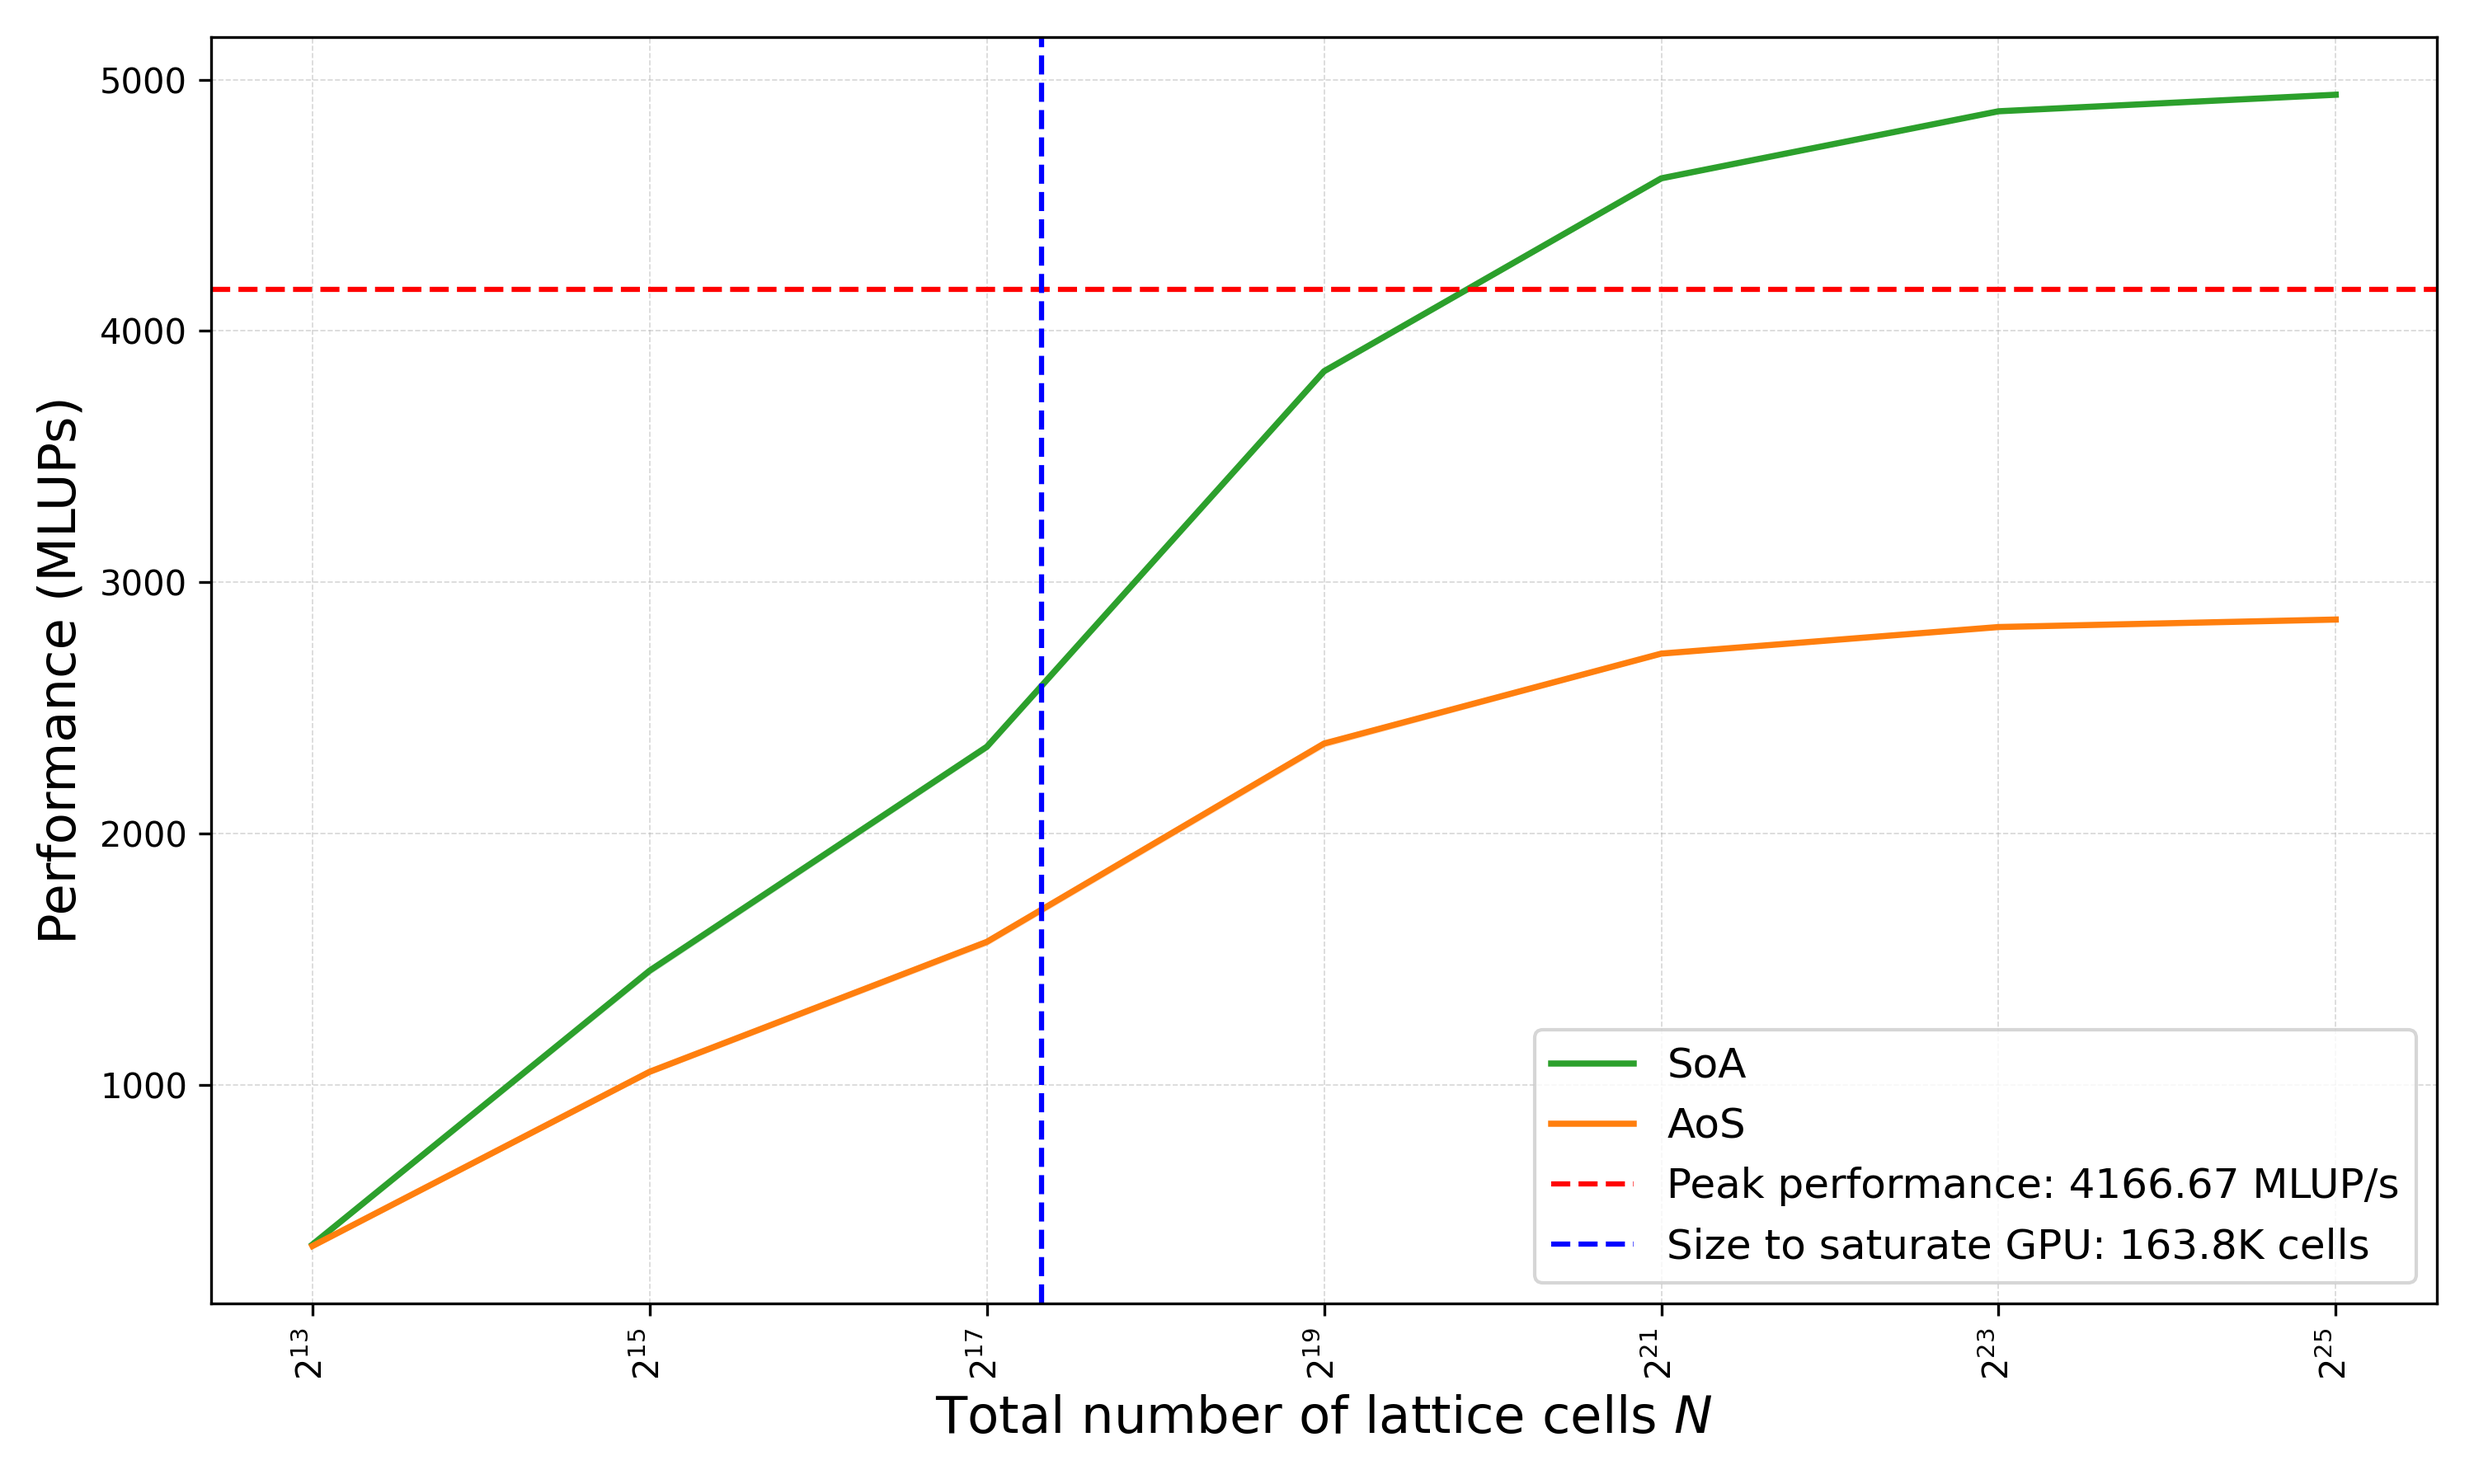
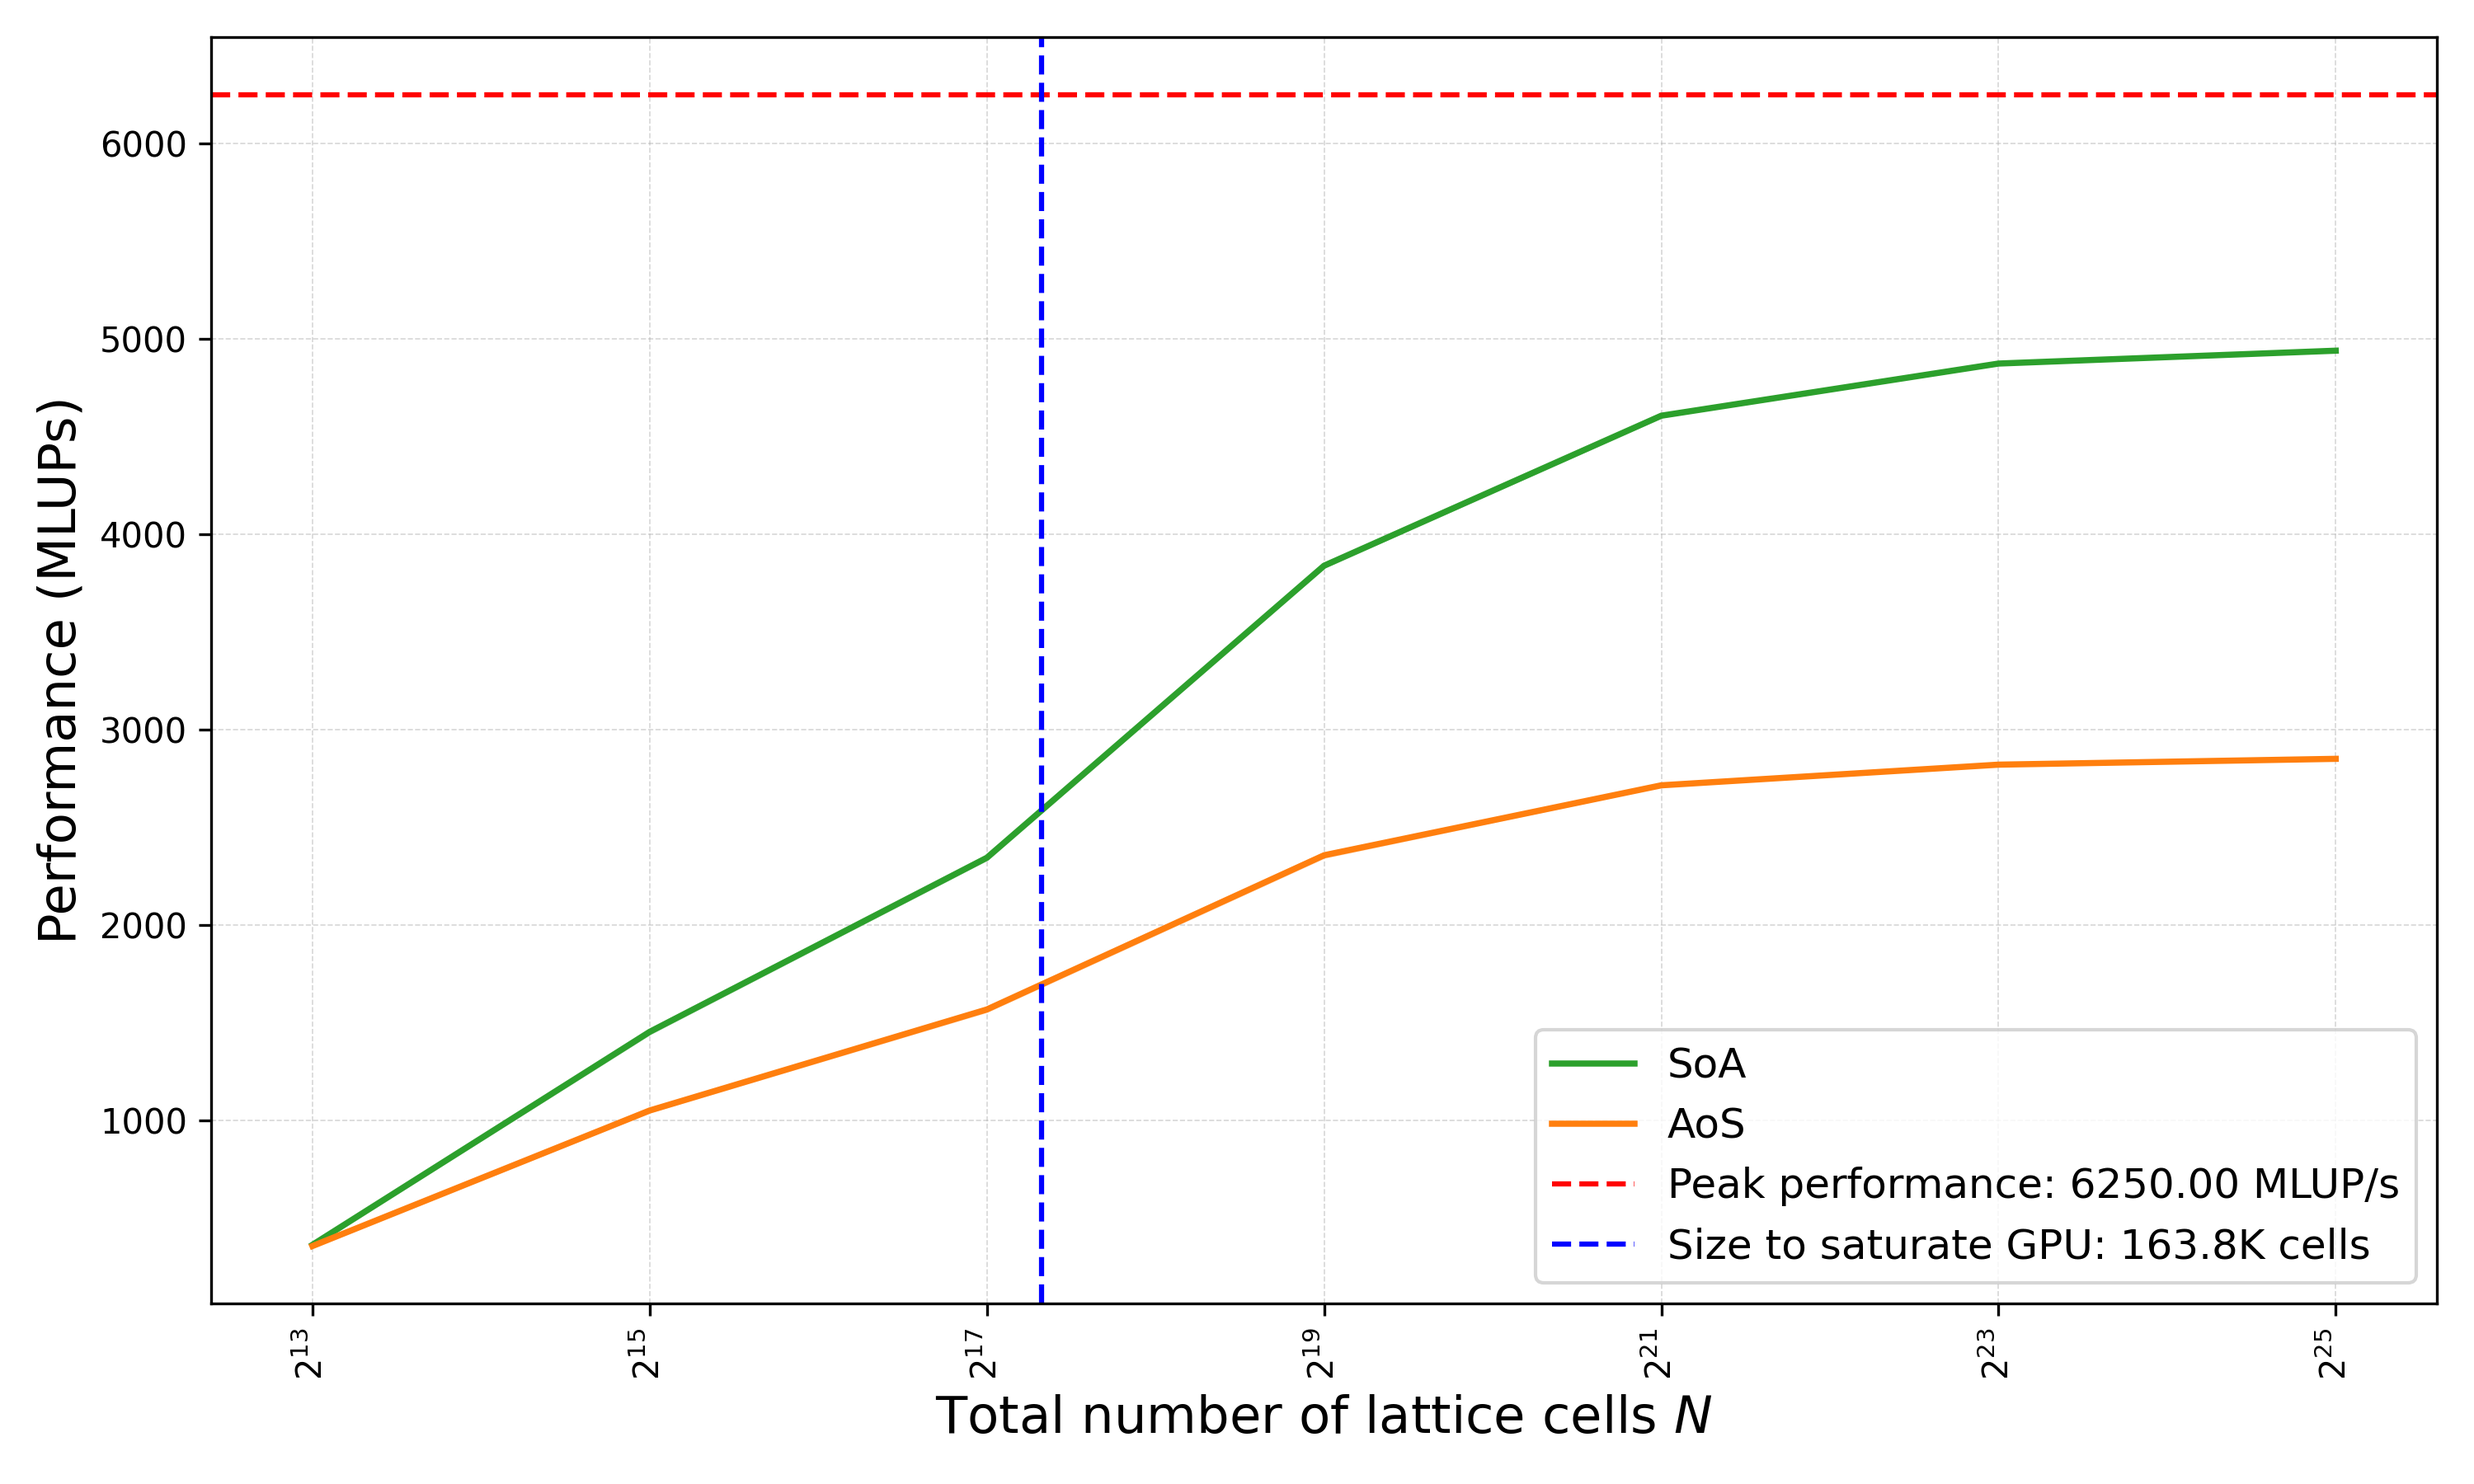
change bytes_per_lu to consider no separate write-allocate and stores on the GPU

diff --git a/viz/cuda_performance.py b/viz/cuda_performance.py
@@ -6,7 +6,7 @@ import os
 #properties of problem
 FLOPS_per_LU = 185
 max_BW_in_GBs = 900
-bytes_per_LU = 216
+bytes_per_LU = 144
 
 # file paths
 OUTPUT_DIR = "./out/"
